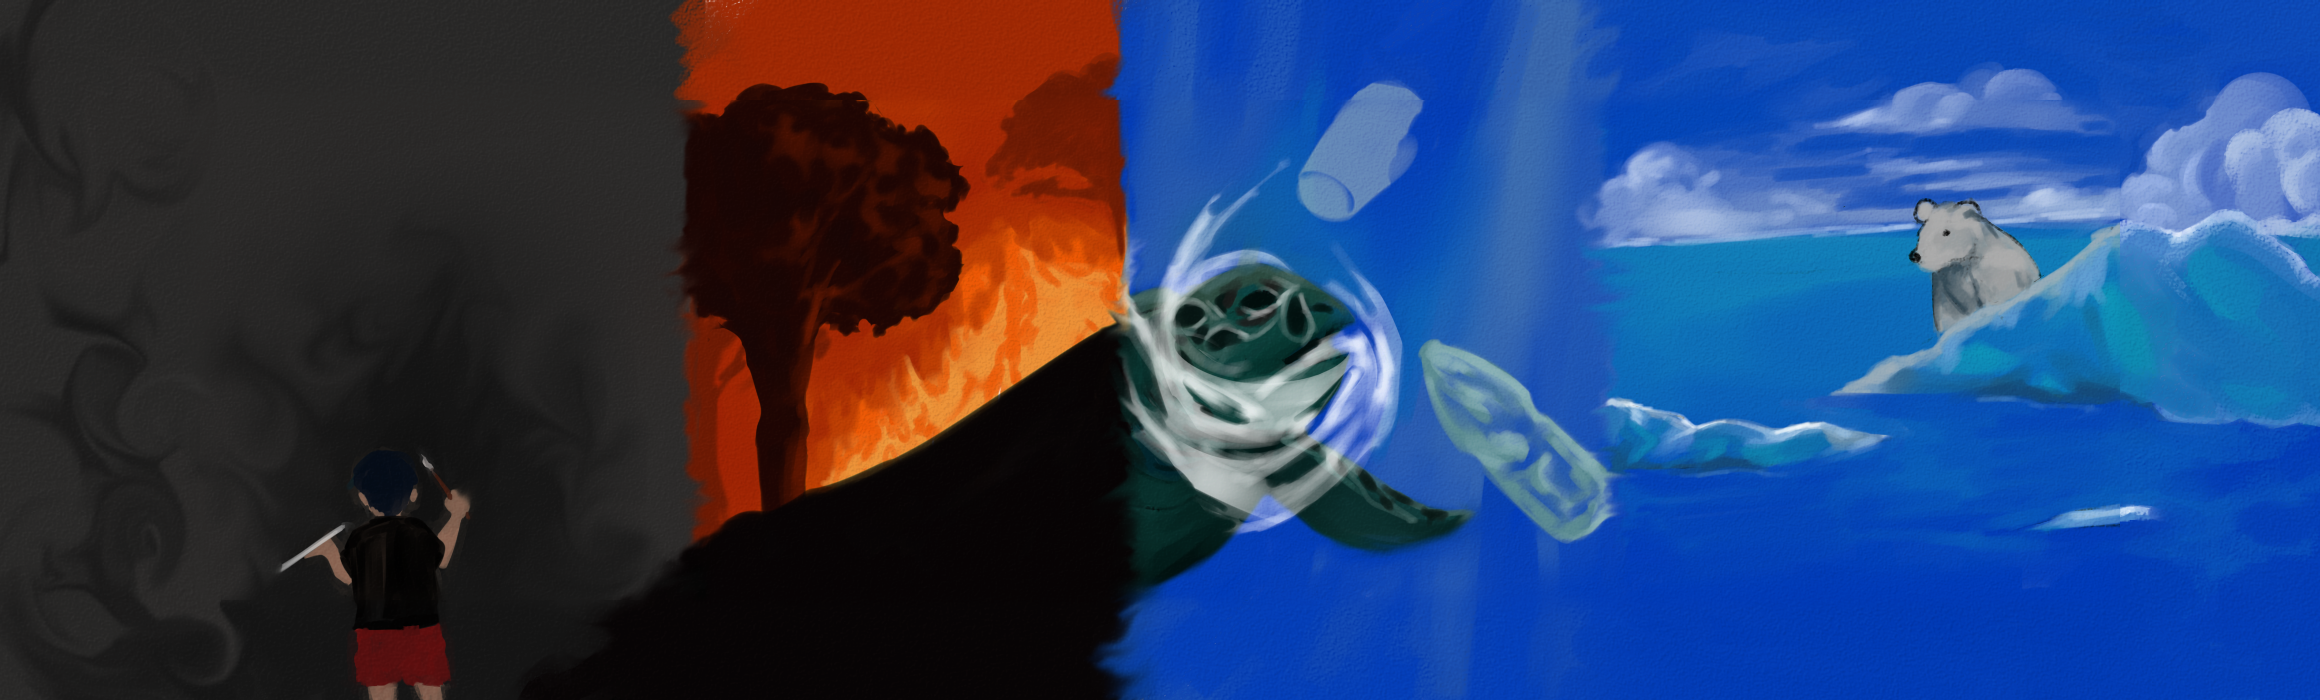
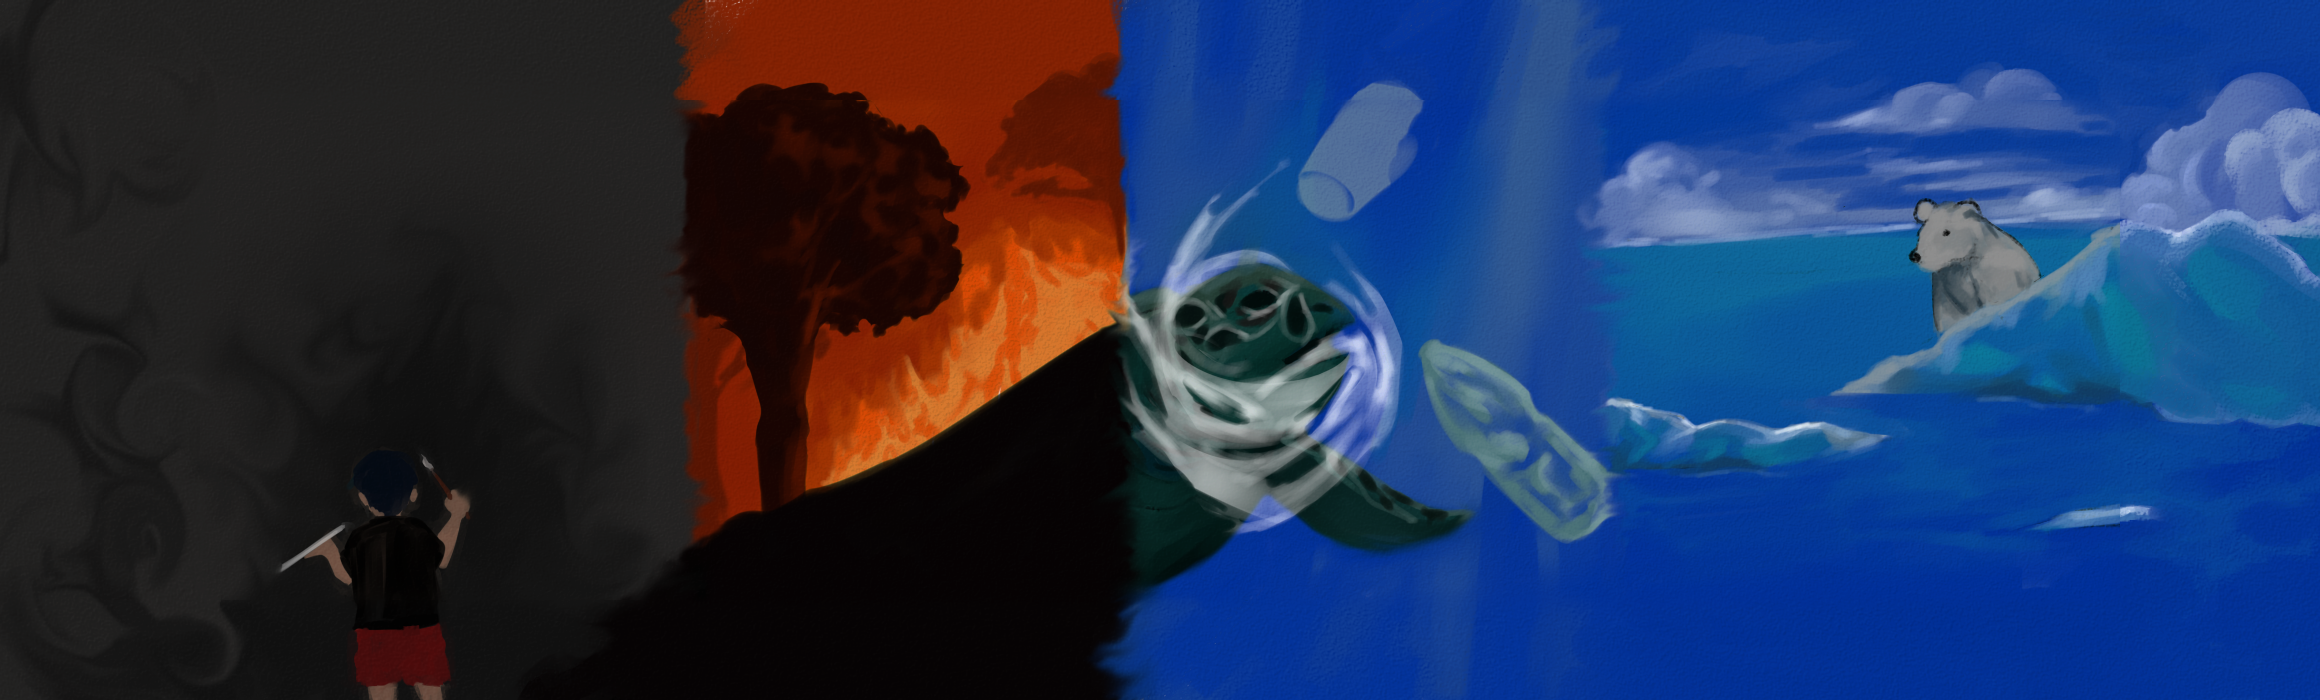
minor changes

diff --git a/src/app/overview-of-climate-change/overview-of-climate-change.component.css b/src/app/overview-of-climate-change/overview-of-climate-change.component.css
@@ -121,6 +121,9 @@ header img{
 /* End of example of climate changes */
 
 /* What is Climate Change? */
+section h1{
+    margin-bottom: 20px;
+}
 .what-is-climate-change-container{
     display: flex;
     flex-direction: column;
@@ -352,6 +355,8 @@ header img{
     /* Related News */
     .related-news-container{
         width: 80%;
-
+    }
+    .insights-main-container{
+        
     }
 }

diff --git a/src/app/landing-page/landing-page.component.html b/src/app/landing-page/landing-page.component.html
@@ -2,7 +2,7 @@
   <div class="parallax-div1">
     <img
       class="parallax-1"
-      src="assets/landing-page/CC1_try.png"
+      src="assets/landing-page/CC1.png"
       alt="Temporary parallax image"
     />
   </div>

diff --git a/src/app/landing-page/landing-page.component.css b/src/app/landing-page/landing-page.component.css
@@ -177,10 +177,6 @@ section .parallax-div4 img{
   width: 100%;
   margin-bottom: 50px;
 }
-
-.parallax-div4 img {
-  width: 100%;
-}
 /* Before and After */
 /* 
 .main-container-cba {
